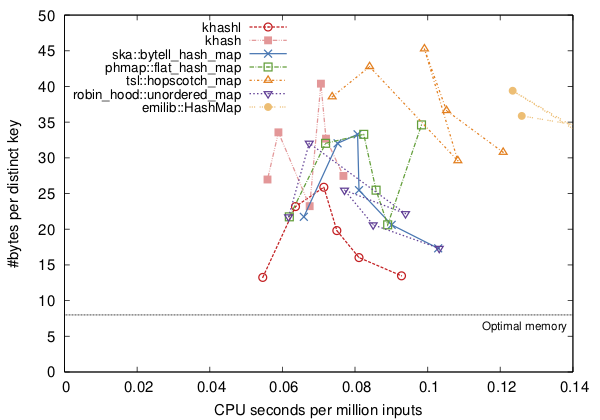
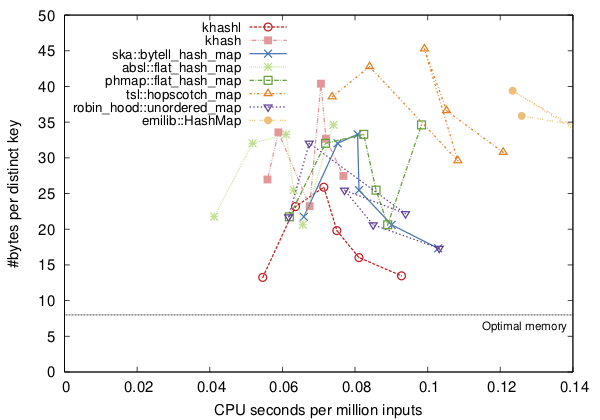
updated with Abseil results

diff --git a/_absl/test.cpp b/_absl/test.cpp
@@ -13,7 +13,12 @@ uint32_t test_int(uint32_t n, uint32_t x0)
 	absl::flat_hash_map<uint32_t, uint32_t, Hash32> h;
 	for (i = 0, x = x0; i < n; ++i) {
 		x = hash32(x);
+#ifndef UDB2_TEST_DEL
 		z += ++h[get_key(n, x)];
+#else
+		auto p = h.insert(std::pair<uint32_t, uint32_t>(get_key(n, x), i));
+		if (p.second == false) h.erase(p.first);
+#endif
 	}
 	fprintf(stderr, "# unique keys: %ld; checksum: %u\n", h.size(), z);
 	return h.size();
